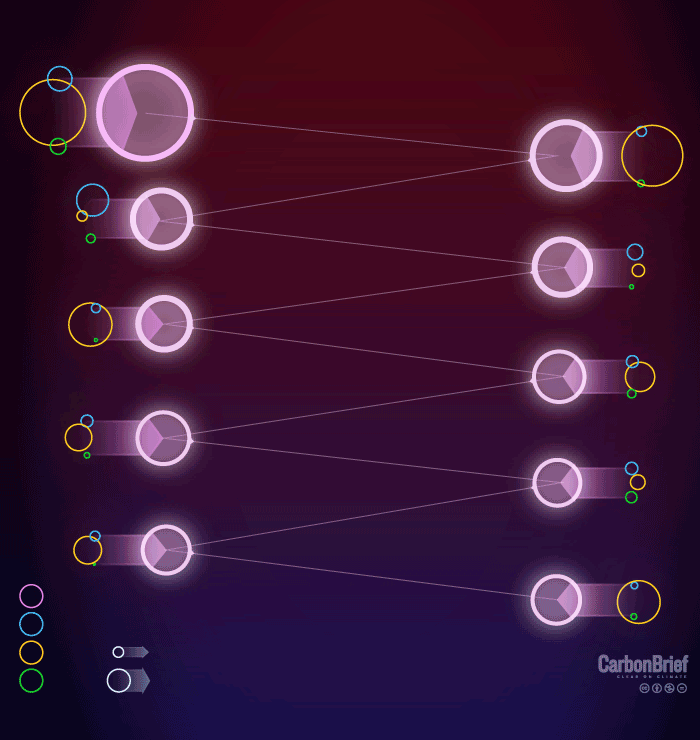
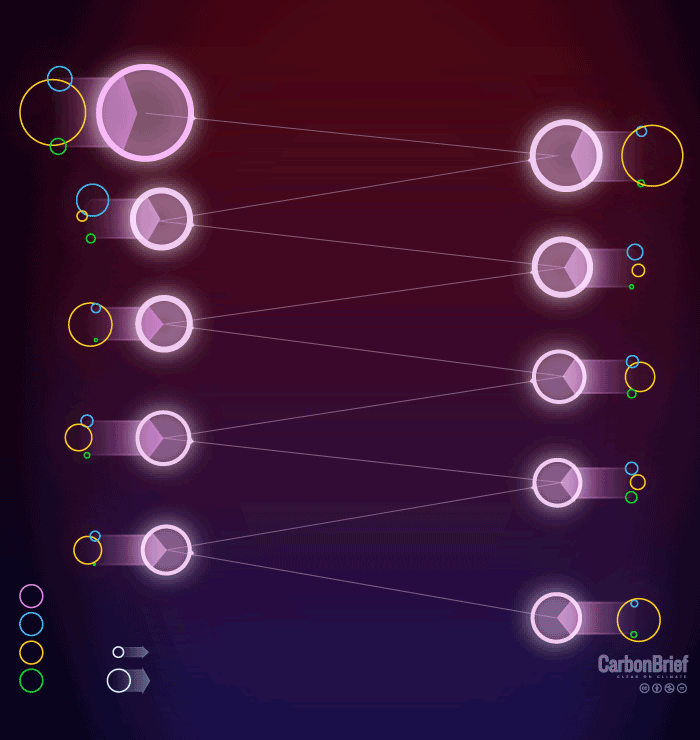
Mobile cropping bug

Changed region(s): [[0.72, 0.7459, 0.96, 0.9014], [0.27, 0.7459, 0.45, 0.777], [0.51, 0.777, 0.63, 0.8081]]

diff --git a/ai2html/mobile-small.html b/ai2html/mobile-small.html
@@ -1,10 +1,7 @@
 
-<!-- Generated by ai2html v0.81.4 - 2021-01-13 10:39 -->
+<!-- Generated by ai2html v0.81.4 - 2021-01-14 16:35 -->
 <!-- ai file: mobile-small.ai -->
 <style type='text/css' media='screen,print'>
-	body { 
-	margin: 0 !important; 
-	}
 	#g-mobile-small-box .g-artboard {
 		margin:0 auto;
 	}
@@ -51,6 +48,7 @@
 		font-size:10px;
 		line-height:12px;
 		height:12px;
+		text-align:right;
 		color:rgb(244,244,244);
 	}
 	#g-mobile-small-Artboard_1 .g-pstyle1 {
@@ -84,6 +82,7 @@
 		font-size:8px;
 		line-height:9px;
 		height:9px;
+		text-align:right;
 		color:rgb(244,244,244);
 	}
 	#g-mobile-small-Artboard_1 .g-pstyle5 {
@@ -283,7 +282,7 @@
 	<!-- Artboard: Artboard_1 -->
 	<div id="g-mobile-small-Artboard_1" class="g-artboard" style="width:350px; height:370px;" data-aspect-ratio="0.946" data-min-width="350">
 		<img id="g-mobile-small-Artboard_1-img" class="g-aiImg g-aiAbs" alt="" src="mobile-small-Artboard_1.png"/>
-		<div id="g-ai0-1" class="g-bg g-aiAbs g-aiPointText" style="top:8.0576%;margin-top:-6.8px;left:61.9738%;width:150px;">
+		<div id="g-ai0-1" class="g-bg g-aiAbs g-aiPointText" style="top:8.0576%;margin-top:-6.8px;right:9.0681%;width:150px;">
 			<p class="g-pstyle0">The Top 10 climate papers in 2020</p>
 		</div>
 		<div id="g-ai0-2" class="g-Layer_11 g-aiAbs g-aiPointText" style="top:14.0111%;margin-top:-7.8px;right:67.121%;width:36px;">
@@ -295,7 +294,7 @@
 		<div id="g-ai0-4" class="g-Layer_11 g-aiAbs g-aiPointText" style="top:9.2448%;margin-top:-2.2px;left:4.8513%;width:27px;">
 			<p class="g-pstyle3">715</p>
 		</div>
-		<div id="g-ai0-5" class="g-bg g-aiAbs g-aiPointText" style="top:11.016%;margin-top:-4.8px;left:65.1116%;width:138px;">
+		<div id="g-ai0-5" class="g-bg g-aiAbs g-aiPointText" style="top:11.016%;margin-top:-4.8px;right:9.2444%;width:138px;">
 			<p class="g-pstyle4">For news and social media attention</p>
 		</div>
 		<div id="g-ai0-6" class="g-Layer_11 g-aiAbs g-aiPointText" style="top:21.0451%;margin-top:-5.9px;left:77.3895%;width:46px;">
@@ -479,39 +478,39 @@
 		<div id="g-ai0-63" class="g-Layer_12 g-aiAbs g-aiPointText" style="top:74.442%;margin-top:-2.4px;left:11.3507%;width:31px;">
 			<p class="g-pstyle6">1,402</p>
 		</div>
-		<div id="g-ai0-64" class="g-Layer_12 g-aiAbs g-aiPointText" style="top:82.2644%;margin-top:-8.4px;left:77.0324%;width:39px;">
-			<p class="g-pstyle22">2,400</p>
-		</div>
-		<div id="g-ai0-65" class="g-Layer_12 g-aiAbs g-aiPointText" style="top:77.5245%;margin-top:-7.8px;right:25.5126%;width:42px;">
-			<p class="g-pstyle1">[10]</p>
-		</div>
-		<div id="g-ai0-66" class="g-Layer_12 g-aiAbs g-aiPointText" style="top:76.8745%;margin-top:-2.4px;left:11.8481%;width:26px;">
+		<div id="g-ai0-64" class="g-Layer_12 g-aiAbs g-aiPointText" style="top:76.8745%;margin-top:-2.4px;left:11.8481%;width:26px;">
 			<p class="g-pstyle11">10</p>
 		</div>
-		<div id="g-ai0-67" class="g-Layer_12 g-aiAbs g-aiPointText" style="top:78.4168%;margin-top:-3.1px;left:28.8792%;width:44px;">
+		<div id="g-ai0-65" class="g-Layer_12 g-aiAbs g-aiPointText" style="top:84.6969%;margin-top:-8.4px;left:77.0324%;width:39px;">
+			<p class="g-pstyle22">2,400</p>
+		</div>
+		<div id="g-ai0-66" class="g-Layer_12 g-aiAbs g-aiPointText" style="top:78.4168%;margin-top:-3.1px;left:28.8792%;width:44px;">
 			<p class="g-pstyle9">The Lancet</p>
 		</div>
-		<div id="g-ai0-68" class="g-Layer_12 g-aiAbs g-aiPointText" style="top:78.1115%;margin-top:-2px;left:91.2852%;width:28px;">
+		<div id="g-ai0-67" class="g-Layer_12 g-aiAbs g-aiPointText" style="top:79.957%;margin-top:-7.8px;right:25.5126%;width:42px;">
+			<p class="g-pstyle1">[10]</p>
+		</div>
+		<div id="g-ai0-68" class="g-Layer_12 g-aiAbs g-aiPointText" style="top:80.544%;margin-top:-2px;left:91.2852%;width:28px;">
 			<p class="g-pstyle7">140</p>
 		</div>
-		<div id="g-ai0-69" class="g-Layer_12 g-aiAbs g-aiPointText" style="top:81.3664%;margin-top:-7.1px;right:25.5667%;width:114px;">
+		<div id="g-ai0-69" class="g-Layer_6 g-aiAbs g-aiPointText" style="top:80.6259%;margin-top:-2.3px;left:6.8809%;width:43px;">
+			<p class="g-pstyle23">Altmetric score</p>
+		</div>
+		<div id="g-ai0-70" class="g-Layer_12 g-aiAbs g-aiPointText" style="top:83.7988%;margin-top:-7.1px;right:25.5667%;width:114px;">
 			<p class="g-pstyle12">The emergence of heat and humidity</p>
 			<p class="g-pstyle12">too severe for human tolerance</p>
 		</div>
-		<div id="g-ai0-70" class="g-Layer_6 g-aiAbs g-aiPointText" style="top:80.6259%;margin-top:-2.3px;left:6.8809%;width:43px;">
-			<p class="g-pstyle23">Altmetric score</p>
-		</div>
-		<div id="g-ai0-71" class="g-Layer_12 g-aiAbs g-aiPointText" style="top:81.3548%;margin-top:-2px;left:90.2341%;width:31px;">
+		<div id="g-ai0-71" class="g-Layer_12 g-aiAbs g-aiPointText" style="top:83.7872%;margin-top:-2px;left:90.2341%;width:31px;">
 			<p class="g-pstyle10">2,087</p>
 		</div>
-		<div id="g-ai0-72" class="g-Layer_12 g-aiAbs g-aiPointText" style="top:84.3627%;margin-top:-3.1px;right:25.466%;width:57px;">
+		<div id="g-ai0-72" class="g-Layer_6 g-aiAbs g-aiPointText" style="top:84.4097%;margin-top:-2.3px;left:6.8809%;width:40px;">
+			<p class="g-pstyle24">News articles</p>
+		</div>
+		<div id="g-ai0-73" class="g-Layer_12 g-aiAbs g-aiPointText" style="top:86.7952%;margin-top:-3.1px;right:25.466%;width:57px;">
 			<p class="g-pstyle14">Science Advances</p>
 		</div>
-		<div id="g-ai0-73" class="g-Layer_12 g-aiAbs g-aiPointText" style="top:84.3278%;margin-top:-2px;left:90.9542%;width:26px;">
+		<div id="g-ai0-74" class="g-Layer_12 g-aiAbs g-aiPointText" style="top:86.7602%;margin-top:-2px;left:90.9542%;width:26px;">
 			<p class="g-pstyle15">30</p>
-		</div>
-		<div id="g-ai0-74" class="g-Layer_6 g-aiAbs g-aiPointText" style="top:84.4097%;margin-top:-2.3px;left:6.8809%;width:40px;">
-			<p class="g-pstyle24">News articles</p>
 		</div>
 		<div id="g-ai0-75" class="g-Layer_6 g-aiAbs g-aiPointText" style="top:88.1935%;margin-top:-2.3px;left:6.8809%;width:45px;">
 			<p class="g-pstyle25">Twitter mentions</p>
@@ -533,4 +532,4 @@
 
 </div>
 
-<!-- End ai2html - 2021-01-13 10:39 -->
+<!-- End ai2html - 2021-01-14 16:35 -->

diff --git a/ai2html/mobile.html b/ai2html/mobile.html
@@ -1,5 +1,5 @@
 
-<!-- Generated by ai2html v0.81.4 - 2021-01-12 17:10 -->
+<!-- Generated by ai2html v0.81.4 - 2021-01-14 16:33 -->
 <!-- ai file: mobile.ai -->
 <style type='text/css' media='screen,print'>
 	#g-mobile-box .g-artboard {
@@ -57,6 +57,7 @@
 		font-size:11px;
 		line-height:13px;
 		height:13px;
+		text-align:right;
 		color:rgb(244,244,244);
 	}
 	#g-mobile-Artboard_1 .g-pstyle2 {
@@ -81,6 +82,7 @@
 		font-size:8px;
 		line-height:10px;
 		height:10px;
+		text-align:right;
 		color:rgb(244,244,244);
 	}
 	#g-mobile-Artboard_1 .g-pstyle5 {
@@ -291,7 +293,7 @@
 		<div id="g-ai0-1" class="g-Layer_11 g-aiAbs g-aiPointText" style="top:7.2789%;margin-top:-8.8px;right:63.1392%;width:38px;">
 			<p class="g-pstyle0">[1]</p>
 		</div>
-		<div id="g-ai0-2" class="g-Layer_11 g-aiAbs g-aiPointText" style="top:3.3806%;margin-top:-7.2px;left:61.8951%;width:159px;">
+		<div id="g-ai0-2" class="g-Layer_11 g-aiAbs g-aiPointText" style="top:3.3806%;margin-top:-7.2px;right:8.149%;width:159px;">
 			<p class="g-pstyle1">The Top 10 climate papers in 2020</p>
 		</div>
 		<div id="g-ai0-3" class="g-Layer_11 g-aiAbs g-aiPointText" style="top:2.622%;margin-top:-2.8px;left:3.9646%;width:29px;">
@@ -300,7 +302,7 @@
 		<div id="g-ai0-4" class="g-Layer_11 g-aiAbs g-aiPointText" style="top:9.4303%;margin-top:-11.4px;left:16.1934%;width:66px;">
 			<p class="g-pstyle3">6,174</p>
 		</div>
-		<div id="g-ai0-5" class="g-Layer_11 g-aiAbs g-aiPointText" style="top:6.1226%;margin-top:-5.6px;left:65.0247%;width:146px;">
+		<div id="g-ai0-5" class="g-Layer_11 g-aiAbs g-aiPointText" style="top:6.1226%;margin-top:-5.6px;right:8.3716%;width:146px;">
 			<p class="g-pstyle4">For news and social media attention</p>
 		</div>
 		<div id="g-ai0-6" class="g-Layer_11 g-aiAbs g-aiPointText" style="top:9.0665%;margin-top:-2.8px;left:5.8052%;width:32px;">
@@ -539,4 +541,4 @@
 
 </div>
 
-<!-- End ai2html - 2021-01-12 17:10 -->
+<!-- End ai2html - 2021-01-14 16:33 -->
